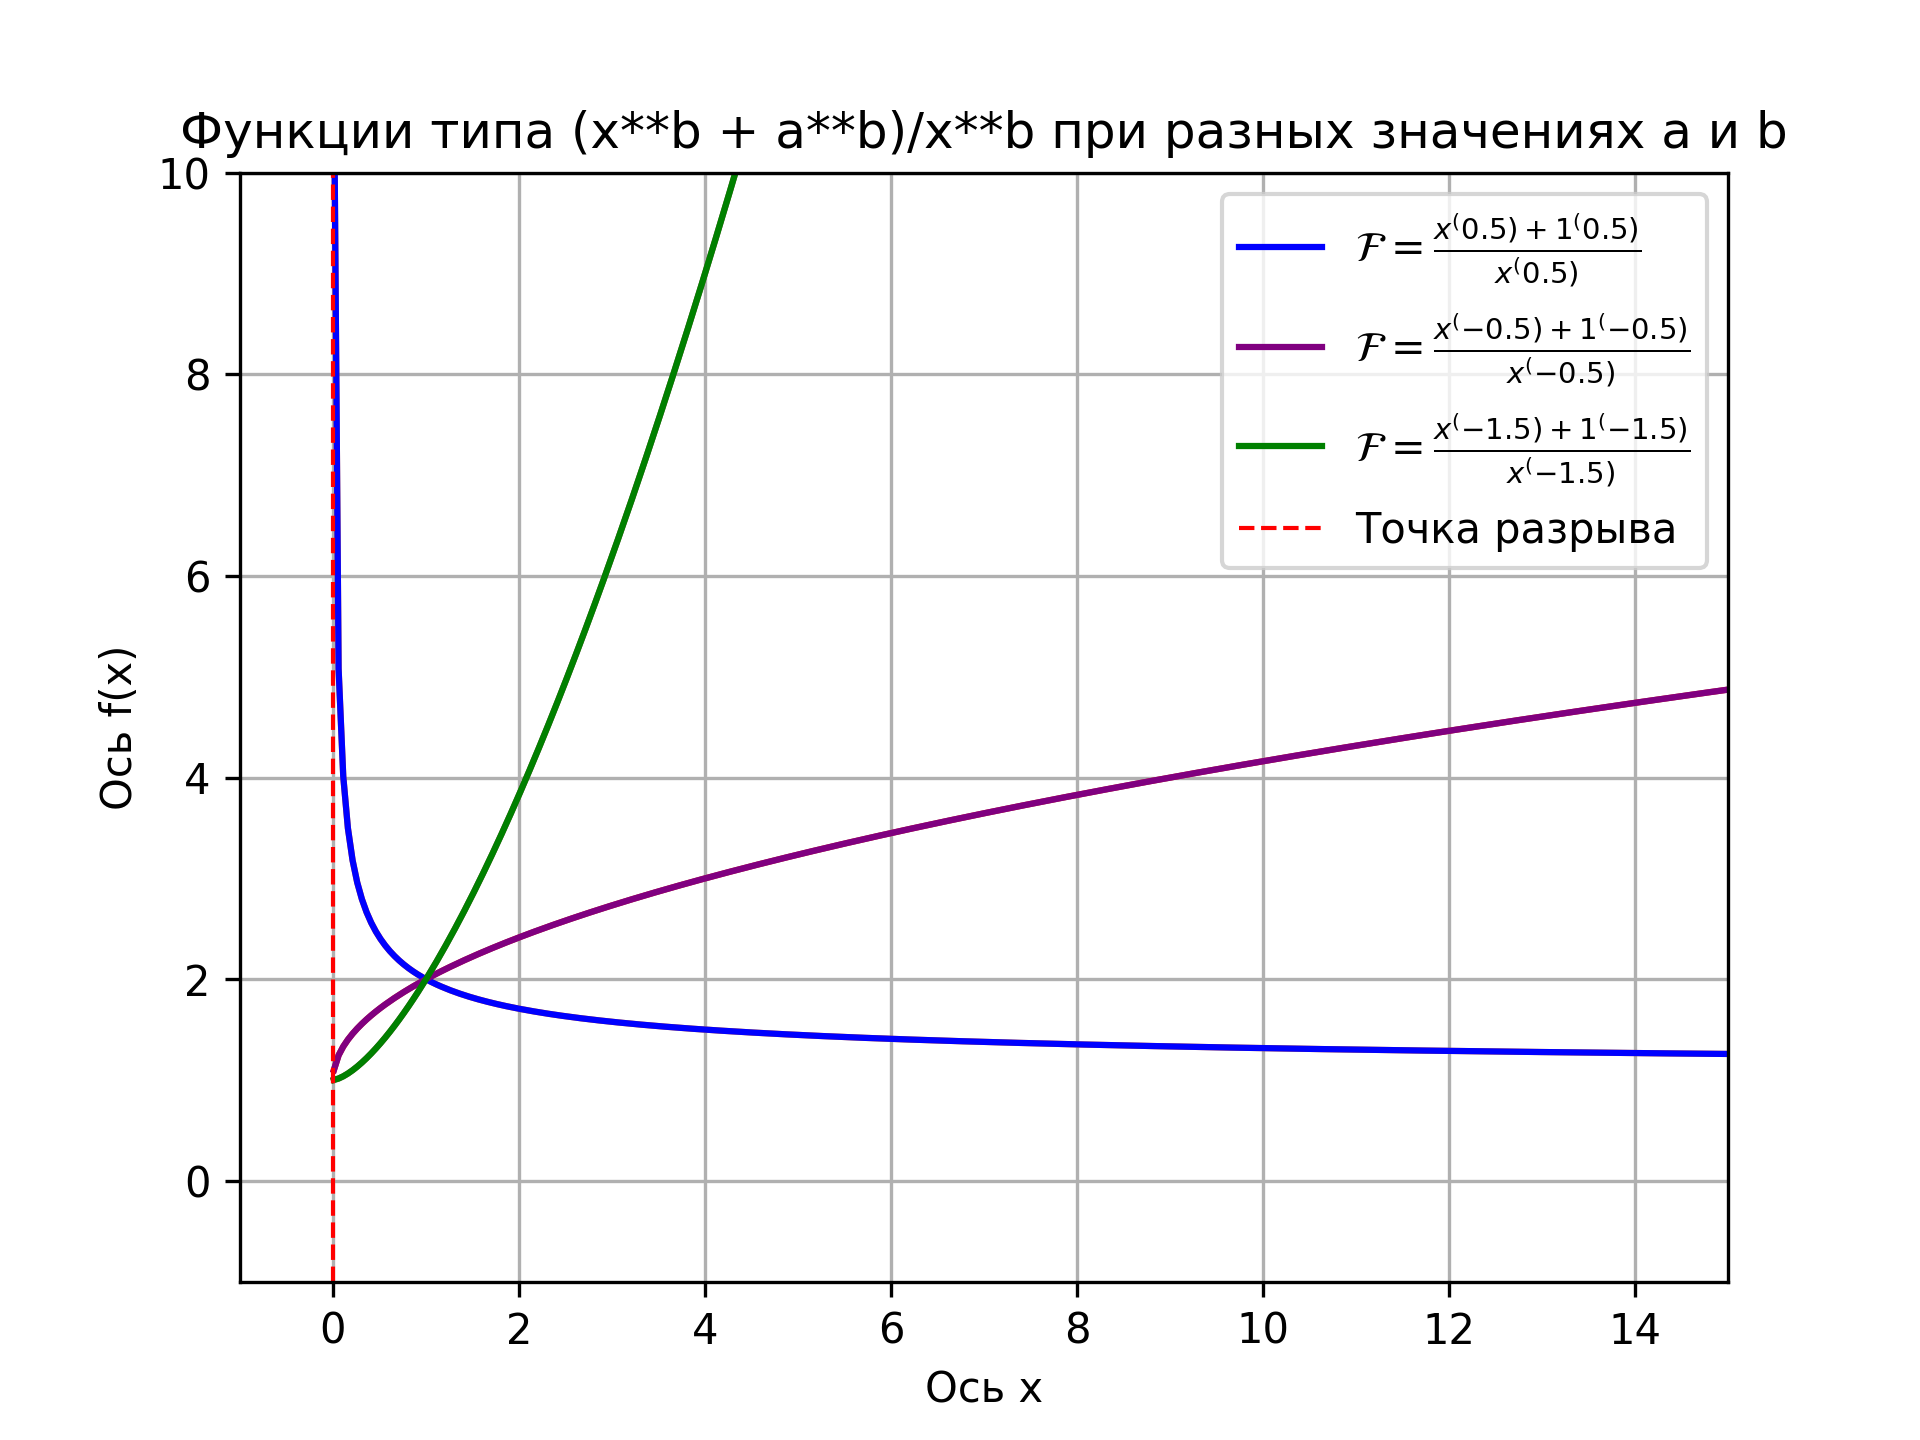
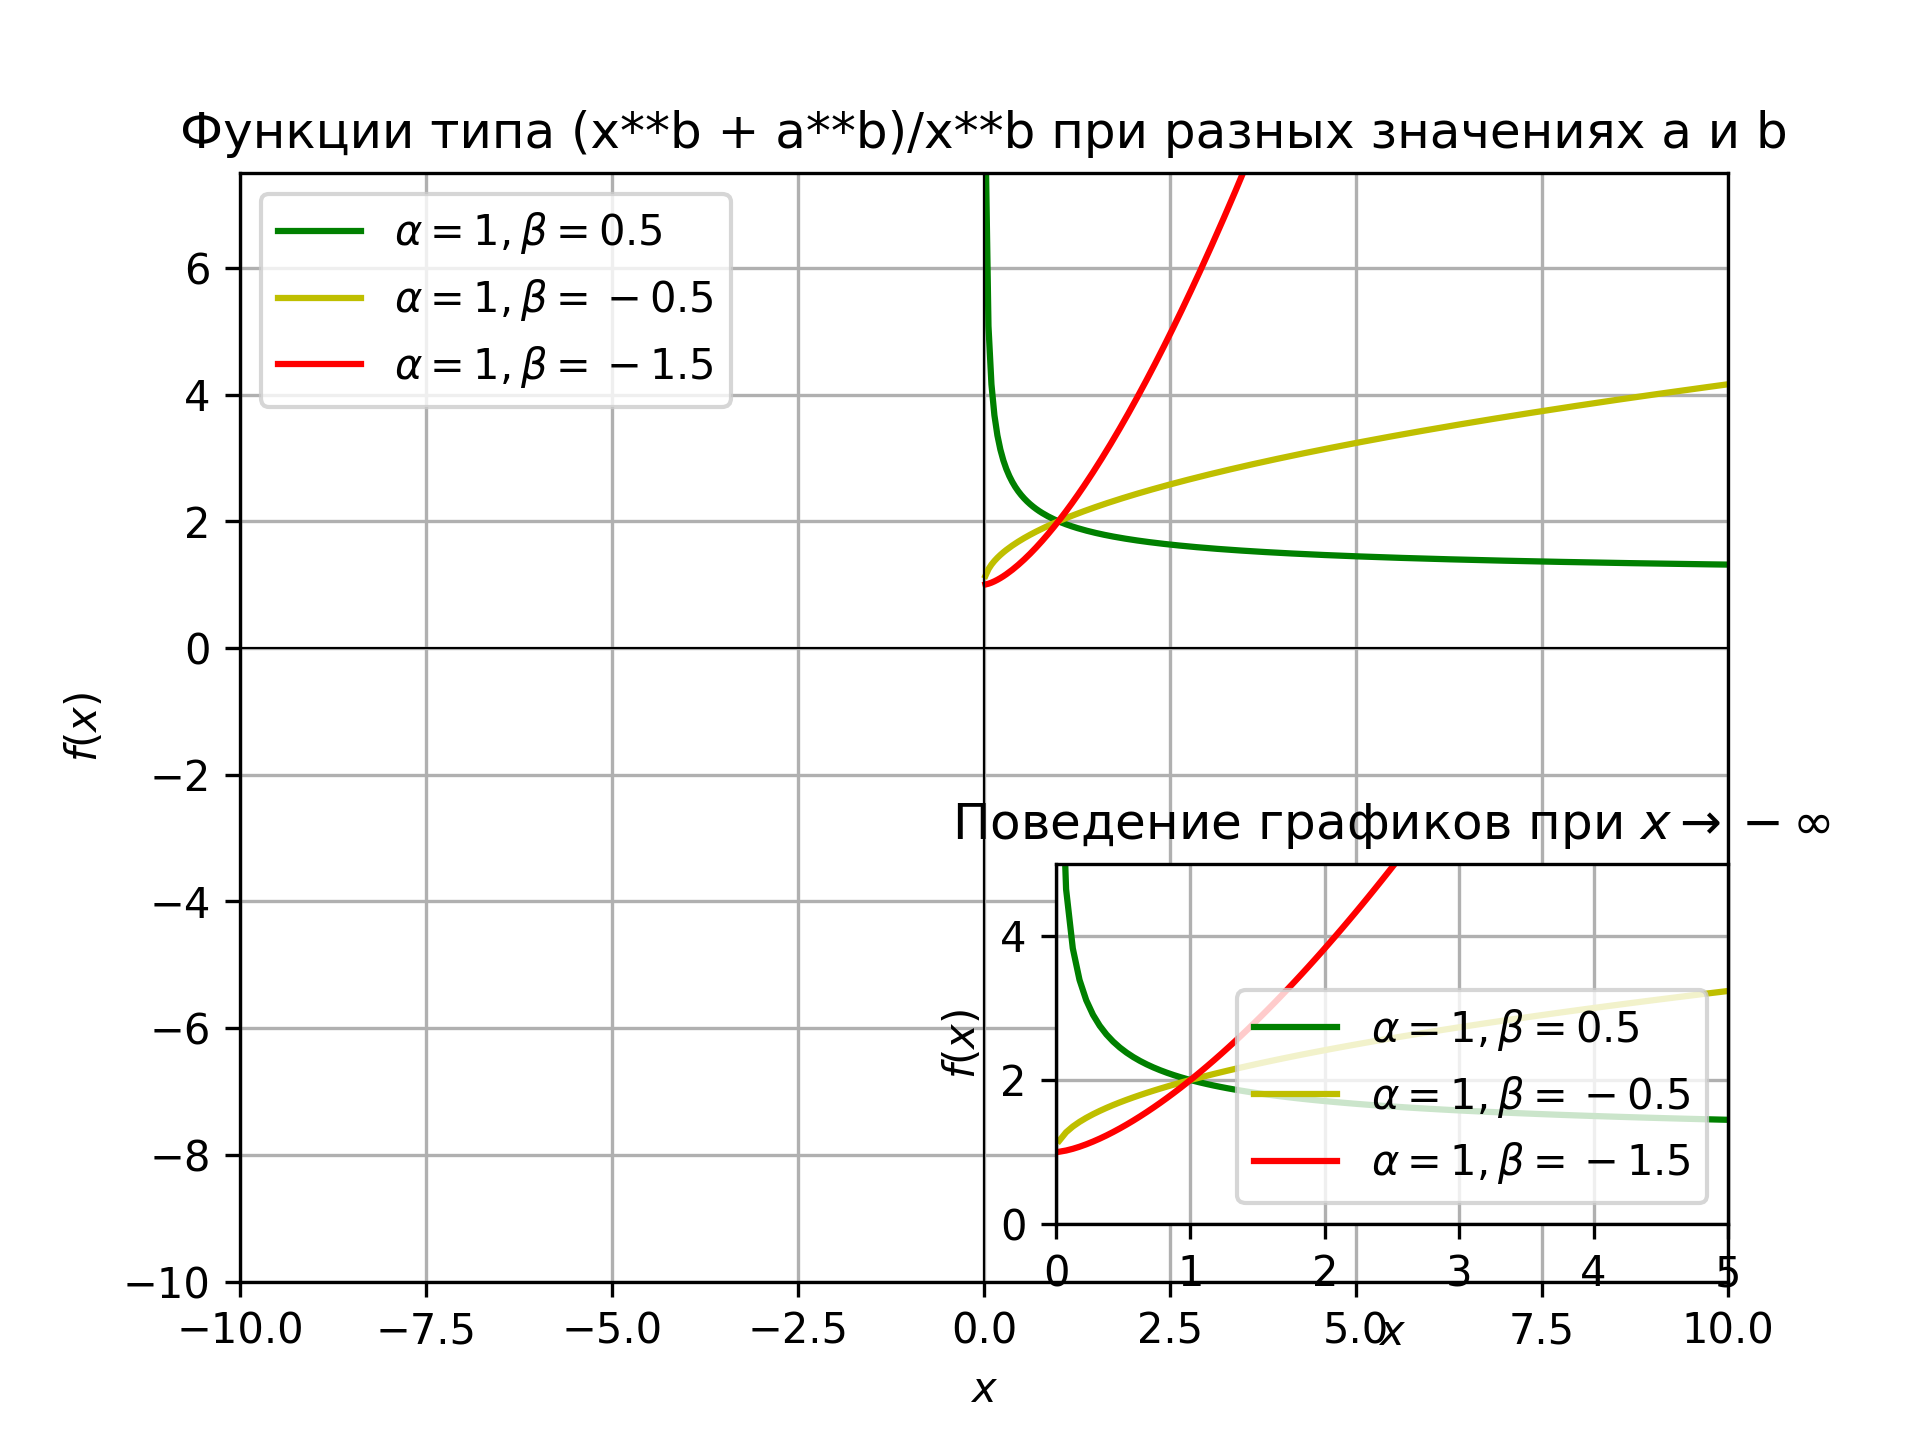
commit

diff --git a/zadaniya/zadanie9/zadanie9_4.py b/zadaniya/zadanie9/zadanie9_4.py
@@ -1,56 +1,57 @@
 import numpy as np
+import matplotlib.pyplot as plt
 import os
-from matplotlib import pyplot as plt
-#ПАРАМЕТРЫ ДЛЯ ПЕРВОГО
-p=0 # асимптота
-x1 = np.linspace(-25, p - 0.01, 500) #граница изнений аргумента в левой части графика
-x2 = np.linspace(p + 0.01, 25 , 500) #граница изнений аргумента в правой части графика
-a=1 #параметр а
-b=0.5 #параметр b, степень
+def f(x, alpha, beta):
+    return (x**beta + alpha**beta)/x**beta
 dir = os.getcwd()
-def f(x):
-    return (x**b + a**b)/x**b #расчет функции для певрого
-def g(x):
-    return (x**h + d**h)/x**h #расчет функции для второго
-def u(x):
-    return (x**v + c**v)/x**v #расчет функции для третьего
 
-#ПАРАМЕТРЫ ДЛЯ ВТОРОГО
-x11 = np.linspace(-25, p - 0.01, 500)
-x21 = np.linspace(25, p + 0.01, 500)
-d= 1
-h= -0.5
-#ПАРАМЕТРЫ ДЛЯ ТРЕТЬЕГО
-x12 = np.linspace(-25, p - 0.01, 500)
-x22 = np.linspace(25, p + 0.01, 500)
-c= 1
-v= -1.5
-#ПОСТРОЕНИЕ ПЕРВОГО
-l1=plt.plot (x1, f(x1)) #расчет точек графика для левой части
-l2=plt.plot (x2, f(x2)) #расчет точек графика для правой части
-#ПОСТРОЕНИЕ ВТОРОГО
-l1=plt.plot (x11, g(x11))
-l2=plt.plot (x21, g(x21))
-#ПОСТРОЕНИЕ  ТРЕТЬЕГО
-l1=plt.plot (x12, u(x12))
-l2=plt.plot (x22, u(x22))
-#ВЫВОД ПЕРВОГО
-plt.plot (x1, f(x1), color='blue', label=r"$\mathcal{F} = \frac{x^(0.5)+1^(0.5)}{x^(0.5)}$") #вывод левой части
-plt.plot (x2, f(x2), color='blue') #вывод правой части
-#ВЫВОД ВТОРОГО
-plt.plot (x11, g(x11), color='purple', label=r"$\mathcal{F} = \frac{x^(-0.5)+1^(-0.5)}{x^(-0.5)}$")
-plt.plot (x21, g(x21), color='purple')
-#ВЫВОД ТРЕТЬЕГО
-plt.plot (x12, u(x12), color='green', label=r"$\mathcal{F} = \frac{x^(-1.5)+1^(-1.5)}{x^(-1.5)}$")
-plt.plot (x22, u(x22), color='green')
-#ВЫВОД АСИМПТОТЫ
-plt.axvline(p, color='red', linestyle='--', label='Точка разрыва', linewidth=1) #строим асимптоту
-plt.xlabel('Ось х')
-plt.ylabel('Ось f(x)')
-plt.grid(True) #вывод сетки
-plt.legend() #вывод легенды
-plt.xlim(-1,15) #задаем диапозон построения x
-plt.ylim(-1,10) #задаем диапозон построения y
-plt.title('Функции типа (x**b + a**b)/x**b при разных значениях a и b')#название
+# Значения x для основного графика
+x_main = np.linspace(-100, 100, 5000)
+
+# Значения x для врезки
+x_inset = np.linspace(-100, 100, 4000)
+
+# Параметры для графиков
+alphas = [1, 1, 1]
+betas = [0.5, -0.5, -1.5]
+colors = ['g', 'y', 'r']
+labels = [rf'$\alpha={a}, \beta={b}$' for a, b in zip(alphas, betas)]
+
+# Основной график
+fig, ax = plt.subplots()
+for alpha, beta, color, label in zip(alphas, betas, colors, labels):
+    ax.plot(x_main, f(x_main, alpha, beta), color=color, label=label)
+    
+# Прямые f(x) = 0, x = 0
+ax.axhline(0, color='k', linewidth=0.5)
+ax.axvline(0, color='black', linewidth=0.5)
+
+# Врезка
+inset_ax = fig.add_axes([0.55, 0.15, 0.35, 0.25])
+for alpha, beta, color, label in zip(alphas, betas, colors, labels):
+    inset_ax.plot(x_inset, f(x_inset, alpha, beta), color=color, label=label)
+
+# Прямые f(x) = 0, x=0 на врезке
+inset_ax.axhline(0, color='k', linewidth=0.5)
+ax.axvline(0, color='black', linewidth=0.5)
+
+# Оформление основного графика
+ax.set_xlim([-10, 10])
+ax.set_ylim([-10, 7.5])
+plt.axvline(x=0, color='black', linewidth=1)
+ax.set_title('Функции типа (x**b + a**b)/x**b при разных значениях a и b')
+ax.set_xlabel('$x$')
+ax.set_ylabel('$f(x)$')
+ax.grid(True)
+ax.legend()
+
+# Оформление врезки
+inset_ax.set_xlim([0, 5])
+inset_ax.set_ylim([0, 5])
+inset_ax.set_title('Поведение графиков при $x \\rightarrow -\infty$')
+inset_ax.set_xlabel('$x$')
+inset_ax.set_ylabel('$f(x)$')
+inset_ax.grid(True)
+inset_ax.legend(loc='lower right')
 plt.savefig(dir + '/zadanie9_4', dpi=300)
-plt.show() #вывод графика в окно
+plt.show()
